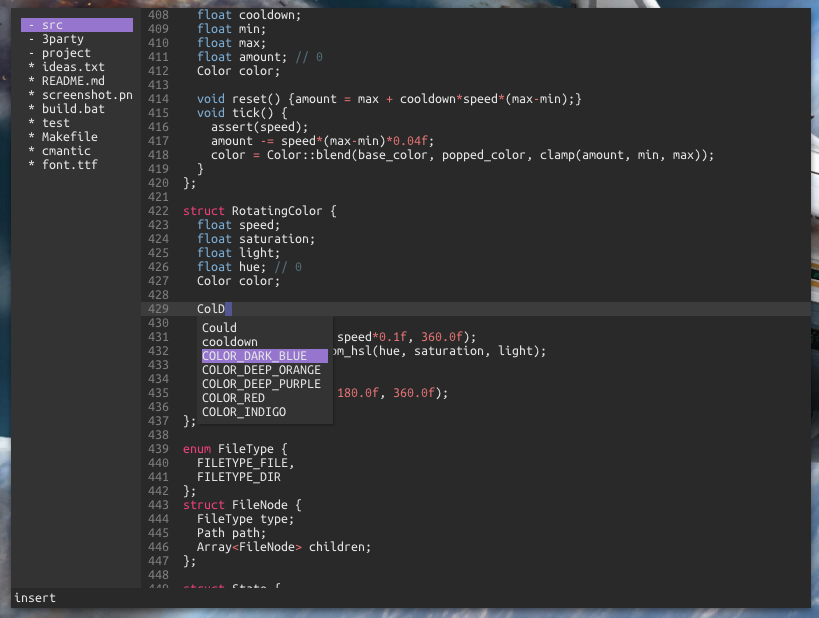
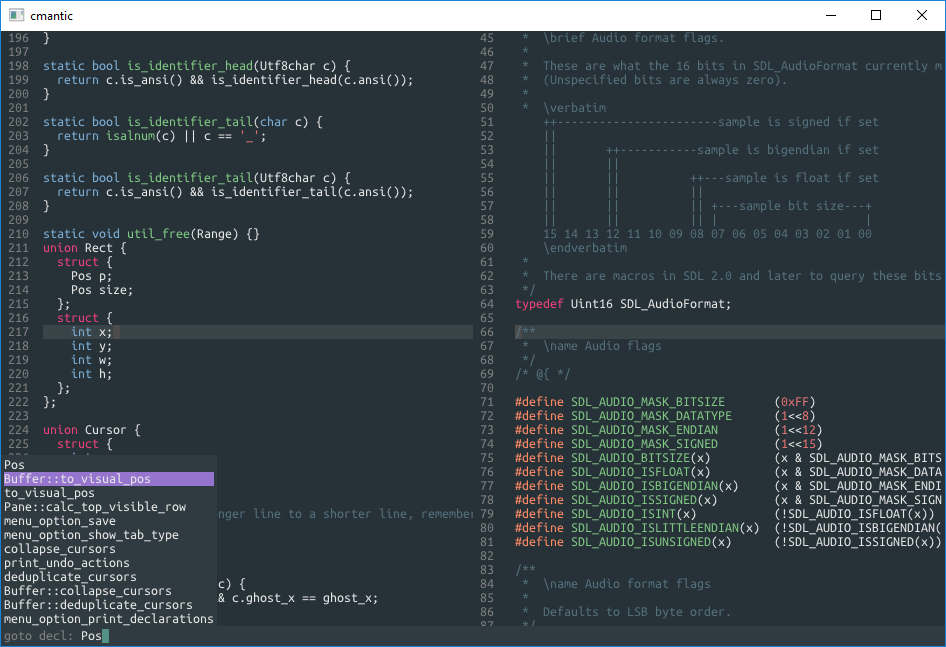
Implemented goto definition withing current file

Changed region(s): [[0.0, 0.0, 1.0, 1.0], [0.5495, 0.8916, 0.7631, 0.9531]]

diff --git a/src/cmantic.cpp b/src/cmantic.cpp
@@ -1,17 +1,15 @@
 /*
  * TODO:
- * clean trailing whitespace
+ * Jumplist
  * Pane stack
  * Visual mode
  * Highlight inserted text (through copy/paste, or undo, but probably not for insert mode)
  * Size limit on undo/redo
  * Fix memory leak occuring between frames
- * Goto definition
+ * Index entire file tree
  * Syntactical Regex engine (regex with extensions for lexical tokens like identifiers, numbers, and maybe even functions, expressions etc.)
  * Compress undo history?
  * Make syntax highlighter use declaration list
- *
- * Add support for sublimes yaml-based syntax highlighting?
  *
  * Update identifiers as you type
  *       When you make a change, go backwards to check if it was an
@@ -22,8 +20,6 @@
  * Folding
  * Multiuser editing
  * TODO stack
- * copy-paste
- * Jumplist
  * Optimize autocompletion using some sort of A*
  * update file list on change
  *
@@ -97,6 +93,7 @@ enum Mode {
   MODE_SEARCH,
   MODE_YANK,
   MODE_FILESEARCH,
+  MODE_GOTO_DEFINITION,
   MODE_COUNT
 };
 
@@ -298,6 +295,7 @@ struct Buffer {
   String filename;
   const char * endline_string; // ENDLINE_WINDOWS or ENDLINE_UNIX
 
+  Array<Cursor> cursors;
   Array<StringBuffer> lines;
   int tab_type; /* 0 for tabs, 1+ for spaces */
 
@@ -310,9 +308,10 @@ struct Buffer {
   Array<Range> declarations;
   Array<String> identifiers;
 
-  Array<Cursor> cursors;
 
   // methods
+  Range* Buffer::getdeclaration(Slice s);
+  TokenInfo* gettoken(Pos p);
   Slice getslice(Pos a, Pos b) {return lines[a.y](a.x, b.x);} // range is inclusive
   Slice getslice(Range r) {return lines[r.a.y](r.a.x, r.b.x);} // range is inclusive
   bool modified() {return _next_undo_action > 0;}
@@ -716,6 +715,7 @@ enum PaneType {
   PANETYPE_MENU,
   PANETYPE_STATUSMESSAGE,
   PANETYPE_DROPDOWN,
+  PANETYPE_GOTO_DEFINITION,
 };
 
 struct MenuOption {
@@ -760,6 +760,7 @@ struct Pane {
   // internal methods
   void render_edit();
   void render_as_dropdown();
+  void render_goto_definition();
   void render_menu();
   void render_textsearch();
   void render_filesearch();
@@ -887,6 +888,8 @@ struct State {
   Buffer dropdown_buffer;
   Pane filetree_pane;
   Buffer filetree_buffer;
+  Pane goto_definition_pane;
+  Buffer goto_definition_buffer;
   Buffer null_buffer;
 
   Array<Buffer*> buffers;
@@ -1264,7 +1267,7 @@ static void tokenize(Buffer &b) {
         Slice s = b.getslice(ti.r);
         if (i+2 < tokens.size && (s == "struct" || s == "enum" || s == "class" || s == "#define") &&
             tokens[i+1].token == TOKEN_IDENTIFIER &&
-            tokens[i+2].token == '}') {
+            tokens[i+2].token == '{') {
           declarations += tokens[i+1].r;
           break;
         }
@@ -1421,7 +1424,7 @@ static struct {MenuOption opt; void(*fun)();} menu_options[] = {
     menu_option_show_tab_type
   },
   {
-    Slice::create("show_declaration"),
+    Slice::create("show_declarations"),
     Slice::create("Show all declarations in current buffer"),
     menu_option_print_declarations
   }
@@ -1452,6 +1455,14 @@ static void mode_search() {
   G.search_failed = 0;
   G.bottom_pane = &G.search_pane;
   G.search_buffer.empty();
+}
+
+static void mode_goto_definition() {
+  mode_cleanup();
+  G.mode = MODE_GOTO_DEFINITION;
+  G.bottom_pane = &G.goto_definition_pane;
+  G.selected_pane = &G.goto_definition_pane;
+  G.goto_definition_buffer.empty();
 }
 
 static void mode_filesearch() {
@@ -1818,6 +1829,17 @@ static bool movement_default(Pane &pane, int key) {
       }
       break;}
 
+    case '*': {
+      TokenInfo *t = buffer.gettoken(buffer.cursors[0].pos);
+      if (!t)
+        break;
+      if (t->token != TOKEN_IDENTIFIER)
+        break;
+      G.search_term_background_color.reset();
+      G.search_buffer[0].length = 0;
+      G.search_buffer[0] += buffer.getslice(t->r);
+      buffer.find_and_move(G.search_buffer[0].slice, false);
+      break;}
     default:
       return false;
   }
@@ -1979,6 +2001,15 @@ static void state_init() {
   G.status_message_pane.active_highlight_background_color = &G.active_highlight_background_color.color;
   G.status_message_pane.margin = 5;
 
+  // goto definition pane
+  G.goto_definition_buffer.empty();
+  G.goto_definition_pane.type = PANETYPE_GOTO_DEFINITION;
+  G.goto_definition_pane.buffer = &G.goto_definition_buffer;
+  G.goto_definition_pane.background_color = &G.bottom_pane_highlight.color;
+  G.goto_definition_pane.text_color = &G.default_text_color;
+  G.goto_definition_pane.active_highlight_background_color = &COLOR_DEEP_PURPLE;
+  G.goto_definition_pane.margin = 5;
+
   G.editing_pane = main_pane;
   G.bottom_pane = &G.status_message_pane;
   G.selected_pane = main_pane;
@@ -2070,6 +2101,20 @@ static void handle_input(Utf8char input, SpecialKey special_key, bool ctrl) {
       case 'b':
         buffer.move_to(0, buffer.num_lines()-1);
         break;
+      case 'd': {
+        // goto declaration
+        TokenInfo *t = buffer.gettoken(buffer.cursors[0].pos);
+        if (!t)
+          break;
+        if (t->token != TOKEN_IDENTIFIER)
+          break;
+
+        Range *decl = buffer.getdeclaration(buffer.getslice(t->r));
+        if (!decl)
+          break;
+
+        buffer.move_to(decl->a);
+        break;}
     }
     mode_normal(true);
     break;
@@ -2106,6 +2151,34 @@ static void handle_input(Utf8char input, SpecialKey special_key, bool ctrl) {
       handle_menu_insert(key, G.menu_pane);
     /* FIXME: if backspace so that menu_buffer is empty, exit menu mode */
     break;
+
+  case MODE_GOTO_DEFINITION: {
+    if (key == KEY_ESCAPE) {
+      mode_normal(true);
+      break;
+    }
+
+    if (key == KEY_RETURN) {
+      Slice* opt = G.goto_definition_pane.menu_get_selection();
+      if (!opt) {
+        status_message_set("\"{}\": No such file", &G.goto_definition_buffer[0].slice);
+        mode_normal(false);
+        break;
+      }
+
+      Range *decl = buffer.getdeclaration(*opt);
+      if (!decl) {
+        mode_normal(true);
+        break;
+      }
+
+      buffer.move_to(decl->a);
+      mode_normal(true);
+      break;
+    }
+
+    handle_menu_insert(key, G.goto_definition_pane);
+    break;}
 
   case MODE_FILESEARCH:
     if (special_key == KEY_RETURN) {
@@ -2184,23 +2257,25 @@ static void handle_input(Utf8char input, SpecialKey special_key, bool ctrl) {
     buffer.action_begin();
     Array<Cursor> cursors = buffer.cursors.copy_shallow();
     if (movement_default(*G.editing_pane, key)) {
-      StringBuffer sb = {};
-      for (int i = 0; i < cursors.size; ++i) {
-        Pos a = cursors[i].pos;
-        Pos b = buffer.cursors[i].pos;
-        if (b < a)
-          swap(a,b);
+      if (cursors.size == buffer.cursors.size) {
+        StringBuffer sb = {};
+        for (int i = 0; i < cursors.size; ++i) {
+          Pos a = cursors[i].pos;
+          Pos b = buffer.cursors[i].pos;
+          if (b < a)
+            swap(a,b);
 
-        StringBuffer s = buffer.range_to_string({a,b});
-        sb += s;
-        if (i < cursors.size-1)
-          sb += '\n';
-        util_free(s);
+          StringBuffer s = buffer.range_to_string({a,b});
+          sb += s;
+          if (i < cursors.size-1)
+            sb += '\n';
+          util_free(s);
 
-        buffer.cursors[i].pos = a;
+          buffer.cursors[i].pos = a;
+        }
+        SDL_SetClipboardText(sb.chars);
+        util_free(sb);
       }
-      SDL_SetClipboardText(sb.chars);
-      util_free(sb);
     }
 
     buffer.action_end();
@@ -2213,13 +2288,15 @@ static void handle_input(Utf8char input, SpecialKey special_key, bool ctrl) {
     buffer.action_begin();
     Array<Cursor> cursors = buffer.cursors.copy_shallow();
     if (movement_default(*G.editing_pane, key)) {
-      // delete movement range
-      for (int i = 0; i < cursors.size; ++i) {
-        Pos a = cursors[i].pos;
-        Pos b = buffer.cursors[i].pos;
-        if (b < a)
-          swap(a,b);
-        buffer.remove_range(a, b, i);
+      if (cursors.size == buffer.cursors.size) {
+        // delete movement range
+        for (int i = 0; i < cursors.size; ++i) {
+          Pos a = cursors[i].pos;
+          Pos b = buffer.cursors[i].pos;
+          if (b < a)
+            swap(a,b);
+          buffer.remove_range(a, b, i);
+        }
       }
     }
     else {
@@ -2288,6 +2365,10 @@ static void handle_input(Utf8char input, SpecialKey special_key, bool ctrl) {
 
     case KEY_ESCAPE:
       buffer.collapse_cursors();
+      break;
+
+    case CONTROL('g'):
+      mode_goto_definition();
       break;
 
     case '=':
@@ -2685,6 +2766,31 @@ StringBuffer Buffer::range_to_string(const Range r) {
       s += lines[r.b.y](0, r.b.x);
     return s;
   }
+}
+
+Range* Buffer::getdeclaration(Slice s) {
+  for (Range &r : declarations)
+    if (getslice(r) == s)
+      return &r;
+  return 0;
+}
+
+TokenInfo* Buffer::gettoken(Pos p) {
+  // TODO: binary search
+  int a = 0, b = tokens.size-1;
+
+  while (a <= b) {
+    int mid = (a+b)/2;
+    if (tokens[mid].a <= p && p < tokens[mid].b) {
+      printf("{%i %i}\n", tokens[mid].a.x, tokens[mid].b.x);
+      return &tokens[mid];
+    }
+    if (tokens[mid].a < p)
+      a = mid+1;
+    else
+      b = mid-1;
+  }
+  return 0;
 }
 
 void Buffer::move(int marker_idx, int dx, int dy) {
@@ -4020,6 +4126,9 @@ void Pane::render() {
     case PANETYPE_DROPDOWN:
       render_as_dropdown();
       break;
+    case PANETYPE_GOTO_DEFINITION:
+      render_goto_definition();
+      break;
   }
 }
 
@@ -4114,6 +4223,21 @@ void Pane::render_filesearch() {
 void Pane::render_textsearch() {
   render_single_line(Slice::create("search: "));
   render_menu_popup(VIEW(G.editing_pane->buffer->identifiers, slice));
+}
+
+void Pane::render_goto_definition() {
+  Buffer &b = *G.editing_pane->buffer;
+  render_single_line(Slice::create("goto decl: "));
+
+  Array<Slice> decls = {};
+  if (G.flags.cursor_dirty) {
+    decls.reserve(b.declarations.size);
+    for (Range r : b.declarations)
+      decls += b.getslice(r);
+  }
+
+  render_menu_popup(view(decls));
+  util_free(decls);
 }
 
 void Pane::render_menu() {
